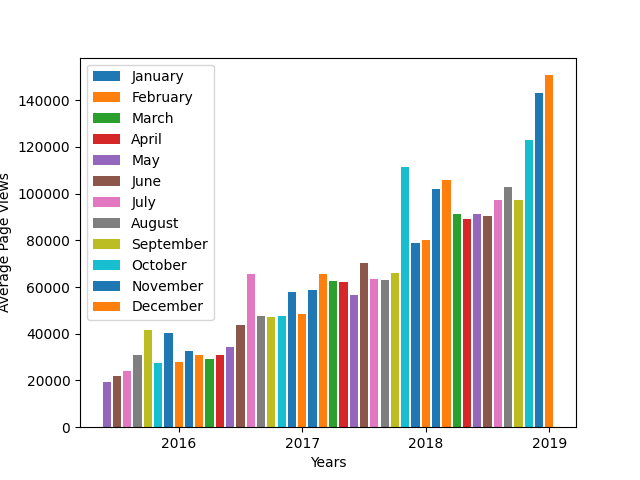
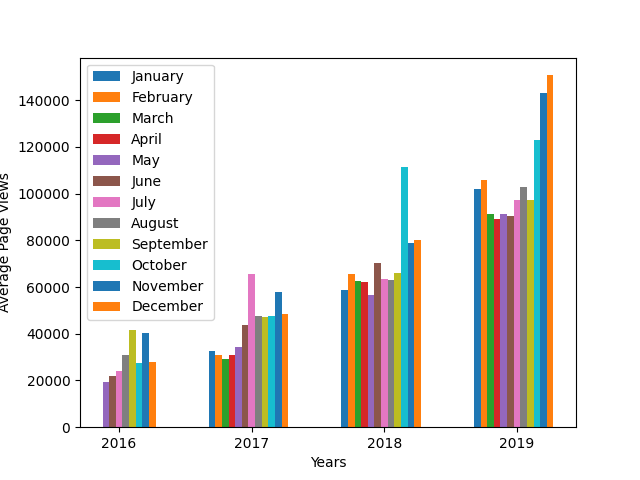
feat: added width to x-axis in bar plot

Changed region(s): [[0.1562, 0.1875, 0.9062, 0.9375]]

diff --git a/time_series_visualizer.py b/time_series_visualizer.py
@@ -129,6 +129,7 @@ def draw_bar_plot():
 
 
     # Step 3: Plot each month
+    '''
     ax = fig.add_subplot(1,1,1)
     month_names = [None,'January','February','March','April','May','June','July','August','September','October','November','December']
     years = df_bar['year_trunc'].unique()
@@ -156,8 +157,35 @@ def draw_bar_plot():
       # 6 is first year
       # 18 is second year
       # 6 + ((year - first_year) * 12)
-    xticks = [6 + ((year - first_year) * 12) for year in years]
+    #xticks = [6 + ((year - first_year) * 12) for year in years]
+    xticks = [0,1,2,3]
     ax.set_xticks(x, years)
+    '''
+
+    # Step 4: Add width
+    ax = fig.add_subplot(1,1,1)
+    month_names = [None,'January','February','March','April','May','June','July','August','September','October','November','December']
+    years = df_bar['year_trunc'].unique()
+    num_years = years.size
+    first_year = years[0]
+    #x = [0,2,4,6] # Base locations: I did the math
+    width = 0.1 # Width of each bar
+    months = range(1,13)
+    for month in months:
+        df_month = df_bar.loc[df_bar['month_trunc'] == month]
+        offset = width * (month-1)
+        x = [(2 * (year - first_year)) + offset for year in df_month['year_trunc']]
+        #x_mod = [n + offset for n in x]
+        ax.bar(x, df_month['value'], width, label=month_names[month])
+
+    x_ticks = [((year - first_year) * 2) + (width * (len(months) / 2)) for year in years]
+    print(x_ticks)
+    # ((year - first_year) * 2) + (width * len(months))
+    x = [0.6,2.6,4.6,6.6]
+    ax.set_xticks(x_ticks, years)
+    ax.legend()
+    ax.set_xlabel('Years')
+    ax.set_ylabel('Average Page Views')
 
     # Save image and return fig (don't change this part)
     fig.savefig('bar_plot.png')
